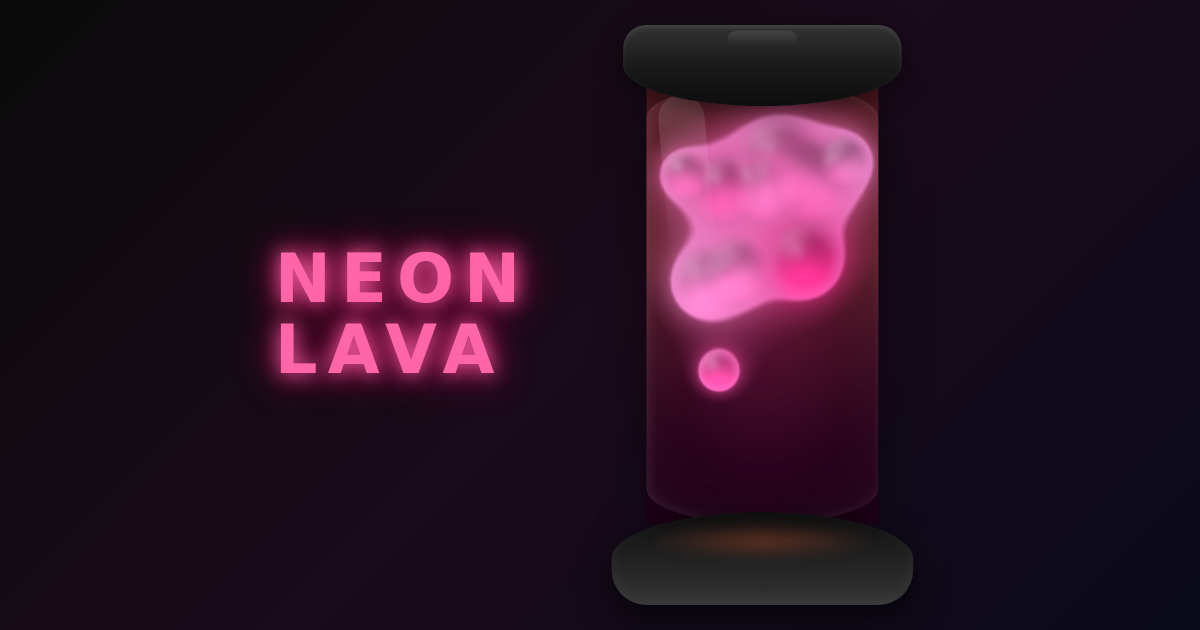
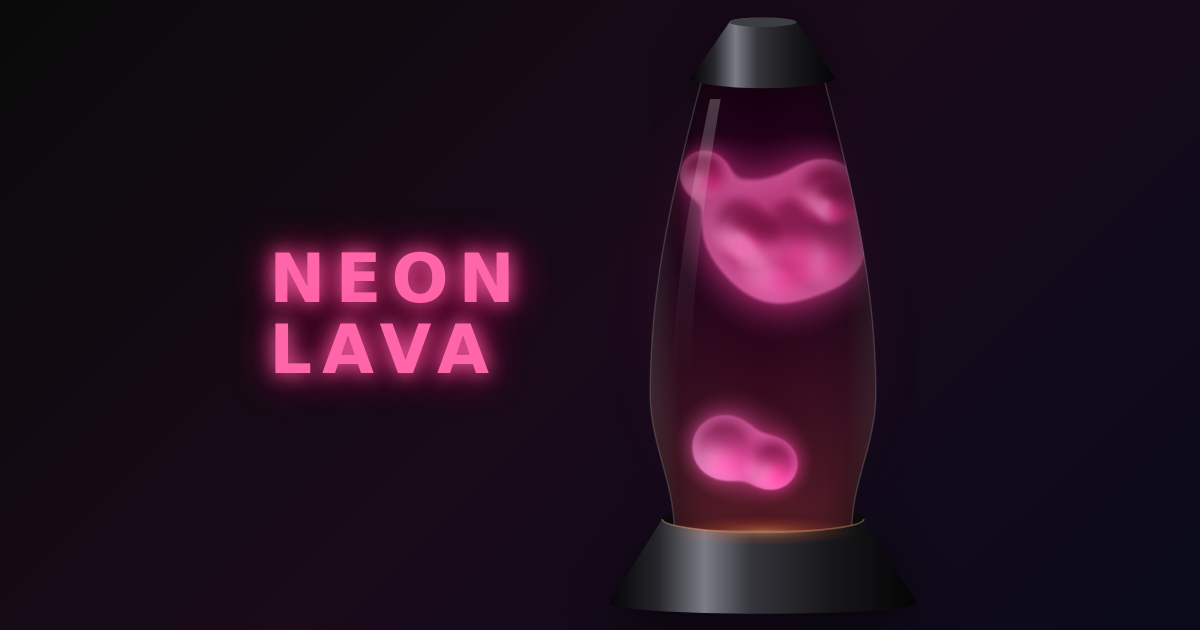
lava-lamp: classic bottle — cone cap, tapered glass, cone base with a glowing bulb collar; wax walls follow the glass, warm light rises from the bulb, richer wax colour

Changed region(s): [[0.4933, 0.0302, 0.7708, 0.9952], [0.2158, 0.3921, 0.4625, 0.4825], [0.2158, 0.5127, 0.4317, 0.6032]]

diff --git a/apps/lava-lamp/index.html b/apps/lava-lamp/index.html
@@ -37,66 +37,18 @@
       width: 100%;
       height: 100%;
     }
-    .lamp-glass {
-      position: absolute;
-      top: 50px; left: 40px;
-      width: 200px; height: 380px;
-      border-radius: 100px / 30px;
-      background: transparent;
-      box-shadow: inset 0 0 60px rgba(255,255,255,0.05), inset 2px 0 10px rgba(255,255,255,0.1), 0 0 40px rgba(0,0,0,0.5);
-      pointer-events: none; z-index: 10;
-    }
-    .lamp-glass::before {
-      content: '';
-      position: absolute;
-      top: 10px; left: 15px;
-      width: 40px; height: 150px;
-      background: linear-gradient(180deg, rgba(255,255,255,0.15) 0%, rgba(255,255,255,0.05) 50%, transparent 100%);
-      border-radius: 20px;
-      transform: rotate(-5deg);
-    }
-    .lamp-cap {
-      position: absolute;
-      top: 0; left: 20px;
-      width: 240px; height: 70px;
-      background: linear-gradient(180deg, #333 0%, #1a1a1a 50%, #0d0d0d 100%);
-      border-radius: 20px 20px 50% 50%;
-      box-shadow: 0 5px 20px rgba(0,0,0,0.5), inset 0 2px 5px rgba(255,255,255,0.1);
-      z-index: 20;
-    }
-    .lamp-cap::after {
-      content: '';
-      position: absolute;
-      top: 5px; left: 50%;
-      transform: translateX(-50%);
-      width: 60px; height: 15px;
-      background: linear-gradient(180deg, #444 0%, #222 100%);
-      border-radius: 10px;
-    }
-    .lamp-base {
-      position: absolute;
-      bottom: 0; left: 10px;
-      width: 260px; height: 80px;
-      background: linear-gradient(180deg, #0d0d0d 0%, #1a1a1a 30%, #333 100%);
-      border-radius: 50% 50% 30px 30px;
-      box-shadow: 0 10px 30px rgba(0,0,0,0.7), inset 0 -5px 15px rgba(255,255,255,0.05);
-      z-index: 20;
-    }
-    .lamp-base::before {
-      content: '';
-      position: absolute;
-      top: 10px; left: 50%;
-      transform: translateX(-50%);
-      width: 200px; height: 30px;
-      background: radial-gradient(ellipse, rgba(255,100,50,0.3) 0%, transparent 70%);
-      filter: blur(5px);
-    }
+    /* cap, glass and base are SVG drawn around the canvas; the bottle outline
+       comes from glassHalfWidth() so wax walls, pixels and glass all agree */
+    .lamp-back, .lamp-front { position: absolute; inset: 0; width: 100%; height: 100%; pointer-events: none; }
+    .lamp-back { z-index: 1; }
+    #lavaCanvas { z-index: 3; }
+    .lamp-front { z-index: 4; filter: drop-shadow(0 10px 18px rgba(0,0,0,0.55)); }
     .glow {
       position: absolute;
       top: 50px; left: 40px;
       width: 200px; height: 380px;
       border-radius: 100px / 30px;
-      pointer-events: none; z-index: 5;
+      pointer-events: none; z-index: 2;
       filter: blur(30px);
       opacity: 0.5;
     }
@@ -201,11 +153,43 @@
   <p class="hint" id="hint">Click inside the lamp to create bubbles</p>
   <div class="stage" id="stage">
   <div class="lamp-container">
+    <svg class="lamp-back" viewBox="0 0 280 500" aria-hidden="true">
+      <ellipse cx="140" cy="420" rx="84" ry="11" fill="#0b0b0d"/>
+      <ellipse cx="140" cy="420" rx="70" ry="8" fill="#ff7a3a" opacity=".35"/>
+    </svg>
     <div class="glow" id="glow"></div>
-    <div class="lamp-cap"></div>
     <canvas id="lavaCanvas" role="img" aria-label="Lava lamp. Click or tap inside the glass to add bubbles of hot wax."></canvas>
-    <div class="lamp-glass"></div>
-    <div class="lamp-base"></div>
+    <svg class="lamp-front" viewBox="0 0 280 500" aria-hidden="true">
+      <defs>
+          <linearGradient id="metal" x1="0" x2="1">
+            <stop offset="0" stop-color="#050506"/><stop offset=".16" stop-color="#26262b"/>
+            <stop offset=".31" stop-color="#7c7c86"/><stop offset=".46" stop-color="#34343b"/>
+            <stop offset=".72" stop-color="#17171a"/><stop offset="1" stop-color="#040405"/>
+          </linearGradient>
+          <linearGradient id="glassEdge" x1="0" x2="1">
+            <stop offset="0" stop-color="#fff" stop-opacity=".13"/><stop offset=".13" stop-color="#fff" stop-opacity=".02"/>
+            <stop offset=".5" stop-color="#fff" stop-opacity="0"/><stop offset=".87" stop-color="#fff" stop-opacity=".02"/>
+            <stop offset="1" stop-color="#fff" stop-opacity=".1"/>
+          </linearGradient>
+          <linearGradient id="shine" x1="0" y1="0" x2="0" y2="1">
+            <stop offset="0" stop-color="#fff" stop-opacity=".22"/><stop offset=".6" stop-color="#fff" stop-opacity=".06"/>
+            <stop offset="1" stop-color="#fff" stop-opacity="0"/>
+          </linearGradient>
+          <radialGradient id="bulb" cx=".5" cy=".5" r=".5">
+            <stop offset="0" stop-color="#ffb070" stop-opacity=".75"/><stop offset=".6" stop-color="#ff6a2a" stop-opacity=".25"/>
+            <stop offset="1" stop-color="#ff6a2a" stop-opacity="0"/>
+          </radialGradient>
+        </defs>
+      <path id="glassPath" fill="url(#glassEdge)" stroke="#fff" stroke-opacity=".16" stroke-width="1.2"/>
+      <path id="glassShine" fill="url(#shine)"/>
+      <!-- cap: a little cone -->
+      <path d="M112 6 L80 52 A60 9 0 0 0 200 52 L168 6 A28 4 0 0 0 112 6 Z" fill="url(#metal)"/>
+      <ellipse cx="140" cy="6" rx="28" ry="4" fill="#3d3d44"/>
+      <!-- base: a wider cone, the bulb glowing inside its collar -->
+      <path d="M56 420 A84 11 0 0 0 224 420 L268 490 A128 9 0 0 1 12 490 Z" fill="url(#metal)"/>
+      <path d="M56 420 A84 11 0 0 0 224 420" fill="none" stroke="#ffb27a" stroke-opacity=".35" stroke-width="1.5"/>
+      <ellipse cx="140" cy="430" rx="80" ry="12" fill="url(#bulb)" opacity=".55"/>
+    </svg>
   </div>
   </div>
   <div class="controls" id="controls">
@@ -245,6 +229,26 @@
     const FLUID_X = 40, FLUID_Y = 50, FLUID_W = 200, FLUID_H = 380;
     canvas.width = CONTAINER_W;
     canvas.height = CONTAINER_H;
+
+    // Classic lava-lamp bottle: a narrow neck under the cap, widest about two
+    // thirds down, pinched in again where it sits in the base. Half-width in px.
+    function glassHalfWidth(fy) {
+      const t = Math.max(0, Math.min(1, fy / FLUID_H));
+      if (t < 0.7) return 50 + 44 * Math.sin(t / 0.7 * Math.PI / 2);
+      return 74 + 10 * (1 + Math.cos((t - 0.7) / 0.3 * Math.PI));
+    }
+    const ROW_HW = new Float32Array(FLUID_H);
+    for (let fy = 0; fy < FLUID_H; fy++) ROW_HW[fy] = glassHalfWidth(fy + 0.5);
+    (function drawGlass() {
+      const cx = FLUID_X + FLUID_W / 2, L = [], R = [], S = [], S2 = [];
+      for (let fy = 0; fy <= FLUID_H; fy += 5) {
+        const hw = glassHalfWidth(fy), y = fy + FLUID_Y;
+        L.push((cx - hw).toFixed(1) + ' ' + y); R.unshift((cx + hw).toFixed(1) + ' ' + y);
+        if (fy >= 20 && fy <= 250) { S.push((cx - hw * 0.8).toFixed(1) + ' ' + y); S2.unshift((cx - hw * 0.64).toFixed(1) + ' ' + y); }
+      }
+      document.getElementById('glassPath').setAttribute('d', 'M' + L.concat(R).join(' L') + ' Z');
+      document.getElementById('glassShine').setAttribute('d', 'M' + S.concat(S2).join(' L') + ' Z');
+    })();
 
     // Custom colors: wax (primary), glow (secondary/highlight), bg (fluid)
     const presets = [
@@ -320,8 +324,8 @@
         // walls
         const centerX = FLUID_W / 2;
         const width = this.getWidthAtY(this.y);
-        const minX = centerX - width / 2 + this.radius;
-        const maxX = centerX + width / 2 - this.radius;
+        const minX = centerX - width / 2 + this.radius * 1.4;   // the drawn wax reaches ~1.5 r
+        const maxX = centerX + width / 2 - this.radius * 1.4;
         if (this.x < minX) { this.x = minX; this.vx = Math.abs(this.vx) * 0.35; }
         if (this.x > maxX) { this.x = maxX; this.vx = -Math.abs(this.vx) * 0.35; }
 
@@ -344,15 +348,12 @@
         }
       }
       getWidthAtY(y) {
-        // Lamp profile — narrower top/bottom, wider middle, but not too squeezed
-        // at the bottom so clumps can actually separate.
-        const n = y / FLUID_H;
-        if (n < 0.08) return 140 + n * 500;       // 140..180
-        if (n > 0.92) return 180 - (n - 0.92) * 500; // 180..140
-        return 180;
+        // Same bottle as the glass, minus a little margin so the wax's glow fits.
+        return 2 * glassHalfWidth(y) - 10;
       }
       getColor() {
-        const t = (Math.sin(this.colorOffset * Math.PI * 2 + Date.now() * 0.001) + 1) / 2;
+        // mostly wax colour, drifting partway toward the glow colour
+        const t = (Math.sin(this.colorOffset * Math.PI * 2 + Date.now() * 0.001) + 1) * 0.2;
         return {
           r: Math.round(currentColors.primary[0] + (currentColors.secondary[0] - currentColors.primary[0]) * t),
           g: Math.round(currentColors.primary[1] + (currentColors.secondary[1] - currentColors.primary[1]) * t),
@@ -404,8 +405,8 @@
     // blobs meet (like intersecting spheres). Light and colour come from a second,
     // soft (1 - d²/S²)³ dome field instead — it blends broadly, so melted wax is one piece.
     const LIGHT = [0, 0.74, 0.67];                 // bulb light from underneath
-    const HALF = (() => { const v = [-0.38, -0.5, 1], l = Math.hypot(v[0], v[1], v[2]); return v.map(c => c / l); })();
-    const SOFT = 2.4, BULGE = 0.65;                // soft kernel reach (× radius), dome height
+    const HALF = (() => { const v = [-0.35, 0.3, 1], l = Math.hypot(v[0], v[1], v[2]); return v.map(c => c / l); })();
+    const SOFT = 2.4, BULGE = 0.42;                // soft kernel reach (× radius), dome height
     let bx = new Float32Array(0), by = bx, bf2 = bx, bs2 = bx, bh = bx, bcr = bx, bcg = bx, bcb = bx;
     function renderMetaballs() {
       const imageData = ctx.createImageData(CONTAINER_W, CONTAINER_H);
@@ -423,6 +424,7 @@
       }
       const bgR = currentColors.bg[0], bgG = currentColors.bg[1], bgB = currentColors.bg[2];
       const glR = currentColors.secondary[0], glG = currentColors.secondary[1], glB = currentColors.secondary[2];
+      const dkR = currentColors.primary[0] * 0.5, dkG = currentColors.primary[1] * 0.35, dkB = currentColors.primary[2] * 0.45;
       const shR = (glR + 255) / 2, shG = (glG + 255) / 2, shB = (glB + 255) / 2;   // sheen: glow-tinted, not grey
       // warm tint for the bulb bottom (lamp light from below)
       const bulbR = Math.min(255, bgR + 80), bulbG = Math.min(255, bgG + 40), bulbB = Math.min(255, bgB + 20);
@@ -430,14 +432,16 @@
       // Fluid area only — [FLUID_X .. FLUID_X+FLUID_W) x [FLUID_Y .. FLUID_Y+FLUID_H)
       for (let fy = 0; fy < FLUID_H; fy++) {
         const ty = fy / FLUID_H;
-        const bulbFall = Math.max(0, Math.pow(1 - Math.max(0, ty - 0.4) / 0.6, 2));
+        const bulbFall = Math.pow(Math.max(0, ty - 0.3) / 0.7, 1.6);   // brightest right above the bulb
         const lineBgR = bgR + (bulbR - bgR) * bulbFall * 0.7;
         const lineBgG = bgG + (bulbG - bgG) * bulbFall * 0.7;
         const lineBgB = bgB + (bulbB - bgB) * bulbFall * 0.7;
         const warm = 0.88 + 0.22 * ty;             // wax near the bulb glows a bit hotter
-        let idx = ((fy + FLUID_Y) * CONTAINER_W + FLUID_X) * 4;
+        const hw = ROW_HW[fy], mid = FLUID_W / 2;
+        const x0 = Math.max(0, Math.floor(mid - hw)), x1 = Math.min(FLUID_W, Math.ceil(mid + hw));
+        let idx = ((fy + FLUID_Y) * CONTAINER_W + FLUID_X + x0) * 4;
 
-        for (let fx = 0; fx < FLUID_W; fx++, idx += 4) {
+        for (let fx = x0; fx < x1; fx++, idx += 4) {
           let sum = 0, gx = 0, gy = 0, w = 1e-9, cR = 0, cG = 0, cB = 0;
           for (let i = 0; i < n; i++) {
             const dx = fx - bx[i], dy = fy - by[i], d2 = dx * dx + dy * dy;
@@ -456,14 +460,16 @@
             cR /= w; cG /= w; cB /= w;
             const halo = Math.min(1, (sum - 0.45) / 0.55) * 0.45;
             r += (cR - r) * halo; g += (cG - g) * halo; bl += (cB - bl) * halo;
-            if (sum > 0.9) {
+            if (sum > 0.92) {
               const il = 1 / Math.sqrt(gx * gx + gy * gy + 1);
               const nx = gx * il, ny = gy * il, nz = il;
               const diff = Math.max(0, ny * LIGHT[1] + nz * LIGHT[2]);
-              const shade = (0.52 + 0.58 * diff) * warm;
-              let wr = cR * shade, wg = cG * shade, wb = cB * shade;
+              // shadows sink toward a deep, saturated wax colour (shading the pale
+              // "hot" colour straight down turned it a dusty grey-mauve)
+              const lit = (0.22 + 0.78 * diff) * warm * 1.06;
+              let wr = dkR + (cR * lit - dkR) * lit, wg = dkG + (cG * lit - dkG) * lit, wb = dkB + (cB * lit - dkB) * lit;
               // translucent wax: thin edges pick up the glow colour
-              const e = Math.max(0, 1 - (sum - 0.9) / 1.6), rim = e * e * 0.4;
+              const e = Math.max(0, 1 - (sum - 0.9) / 1.6), rim = e * e * 0.28;
               wr += (glR - wr) * rim; wg += (glG - wg) * rim; wb += (glB - wb) * rim;
               // glossy highlight
               let sp = Math.max(0, nx * HALF[0] + ny * HALF[1] + nz * HALF[2]);
@@ -471,12 +477,16 @@
               sp *= 0.4;
               wr += (shR - wr) * sp; wg += (shG - wg) * sp; wb += (shB - wb) * sp;
               // soft, anti-aliased edge
-              let a = (sum - 0.9) / 0.2;
+              let a = (sum - 0.92) / 0.14;
               a = a >= 1 ? 1 : a * a * (3 - 2 * a);
               r += (wr - r) * a; g += (wg - g) * a; bl += (wb - bl) * a;
             }
           }
-          data[idx] = r; data[idx + 1] = g; data[idx + 2] = bl; data[idx + 3] = 255;
+          // round glass: darker toward the walls; soft 1px edge against the page
+          const off = Math.abs(fx + 0.5 - mid), ef = off / hw, ef2 = ef * ef, v = 1 - 0.42 * ef2 * ef2;
+          const cover = hw - off + 0.5;
+          data[idx] = r * v; data[idx + 1] = g * v; data[idx + 2] = bl * v;
+          data[idx + 3] = cover >= 1 ? 255 : cover * 255;
         }
       }
       // Outside the fluid region, leave alpha = 0 (cap/base/glass sit above anyway).
@@ -579,7 +589,7 @@
       const rect = canvas.getBoundingClientRect();
       const x = (clientX - rect.left) * (CONTAINER_W / rect.width) - FLUID_X;
       const y = (clientY - rect.top)  * (CONTAINER_H / rect.height) - FLUID_Y;
-      return { x, y, inside: x >= 0 && x < FLUID_W && y >= 0 && y < FLUID_H };
+      return { x, y, inside: y >= 0 && y < FLUID_H && Math.abs(x - FLUID_W / 2) < glassHalfWidth(y) };
     }
 
     canvas.addEventListener('click', (e) => {

diff --git a/apps/lava-lamp/notes.md b/apps/lava-lamp/notes.md
@@ -1,6 +1,7 @@
 # Neon Lava Lamp
 
 ## log
+- 2026-09-26: Classic bottle. `glassHalfWidth(fy)` (neck 50 → belly 94 at 70% → 74 at the base) drives everything: renderer draws only inside it (1px AA edge + darker toward the walls), blob walls (`2·hw − 10`, clamped at 1.4 r since wax draws to ~1.5 r), click hit-test, and the SVG glass outline/shine built at load. Cap and base are SVG cones (`.lamp-back` behind the canvas holds the collar's back half, `.lamp-front` on top). Bulb warmth fixed — the fluid tint was brightest at the top, now brightest just above the bulb. Wax: shadows go toward a deep saturated wax colour (dark = primary × ~0.45), colours drift only 40% toward the glow colour, sheen tinted with the glow colour on the lit side. New og.png.
 - 2026-09-26: Smooth wax + layout pass.
   - Wax shading rewritten: the outline still comes from the 1/d² metaball field, but lighting uses a second soft (1 − d²/S²)³ dome field (S = 2.4r) so merged blobs light as one piece — the old "nearest blob" shading drew hard creases/facets where blobs met. Light from the bulb below, glow-tinted sheen, thin edges pick up the glow colour, anti-aliased edge.
   - Colour blend weight is (f²/(d²+f²))² — broad and never zero. A kernel that hits zero at its reach made crisp pale patches (colour flipped to a fallback there).
